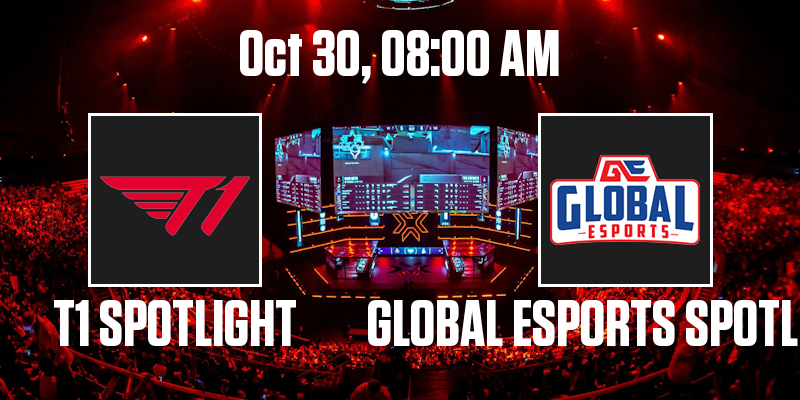
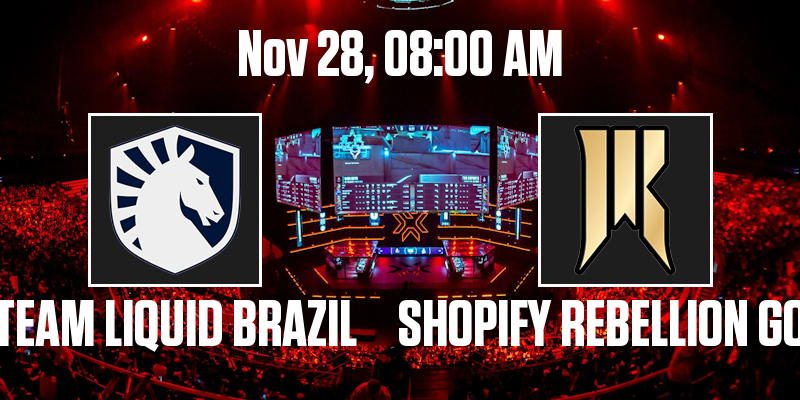
doesnt save images to folder anymore

diff --git a/src/plugins/vlrtrack/settings.html b/src/plugins/vlrtrack/settings.html
@@ -1,3 +1,3 @@
 <div class="form-group">
-    <span>This will display the most recent Valorant Esports Match</span>
+    <span>This will display the most recent upcoming Valorant Esports Match</span>
 </div>

diff --git a/src/plugins/vlrtrack/vlrtrack.py b/src/plugins/vlrtrack/vlrtrack.py
@@ -35,14 +35,10 @@ class vlrtrack(BasePlugin):
         draw.rectangle([(88, 113), (261, 286)], outline="white", width=3, fill= (30, 30, 30))
 
         logo_url = game_data["team1_logo"]
-        output_path = "output1.png"
 
         response = requests.get(logo_url)
 
         if response.status_code == 200:
-            with open(output_path, "wb") as f:
-                f.write(response.content)
-            print(f"Image saved as {output_path}")
             logo_img = Image.open(BytesIO(response.content)).convert("RGBA")
             logo_img.thumbnail((150, 150))
             
@@ -54,14 +50,10 @@ class vlrtrack(BasePlugin):
         draw.rectangle([(538, 113), (712, 286)], outline="white", width=3, fill= (30, 30, 30))
         
         logo_url = game_data["team2_logo"]
-        output_path = "output2.png"
 
         response = requests.get(logo_url)
 
         if response.status_code == 200:
-            with open(output_path, "wb") as f:
-                f.write(response.content)
-            print(f"Image saved as {output_path}")
             logo_img = Image.open(BytesIO(response.content)).convert("RGBA")
             logo_img.thumbnail((150, 150))
 
@@ -74,5 +66,7 @@ class vlrtrack(BasePlugin):
         
         draw.text((175, 300), f"{game_data['team1']}", fill="white", font=title_font, anchor="mt")
         draw.text((625, 300), f"{game_data['team2']}", fill="white", font=title_font, anchor="mt")
+
+        print("Image generated ✅")
         
         return image

diff --git a/src/plugins/vlrtrack/vlrparser.py b/src/plugins/vlrtrack/vlrparser.py
@@ -9,12 +9,6 @@ def getGames():
     res = requests.get("https://vlrggapi.vercel.app/match?q=upcoming&num_pages=1&max_retries=3&request_delay=1&timeout=30")
     data = res.json()
 
-    # Save JSON to a file
-    with open(os.path.join(os.path.dirname(__file__), "matches.json"), "w", encoding="utf-8") as f:
-        json.dump(data, f, indent=4, ensure_ascii=False)
-
-    print("JSON data saved to matches.json ✅")
-
     def getdata(url): 
         r = requests.get(url) 
         return r.text 
@@ -41,5 +35,5 @@ def getGames():
                 "team2_logo": "http:" + (images[3] if len(images) > 3 else None)
             })
 
-    print("Formatted JSON data saved to formatted_matches.json ✅")
+    print("Formatted JSON data ✅")
     return extracted_data[0] if extracted_data else {}
